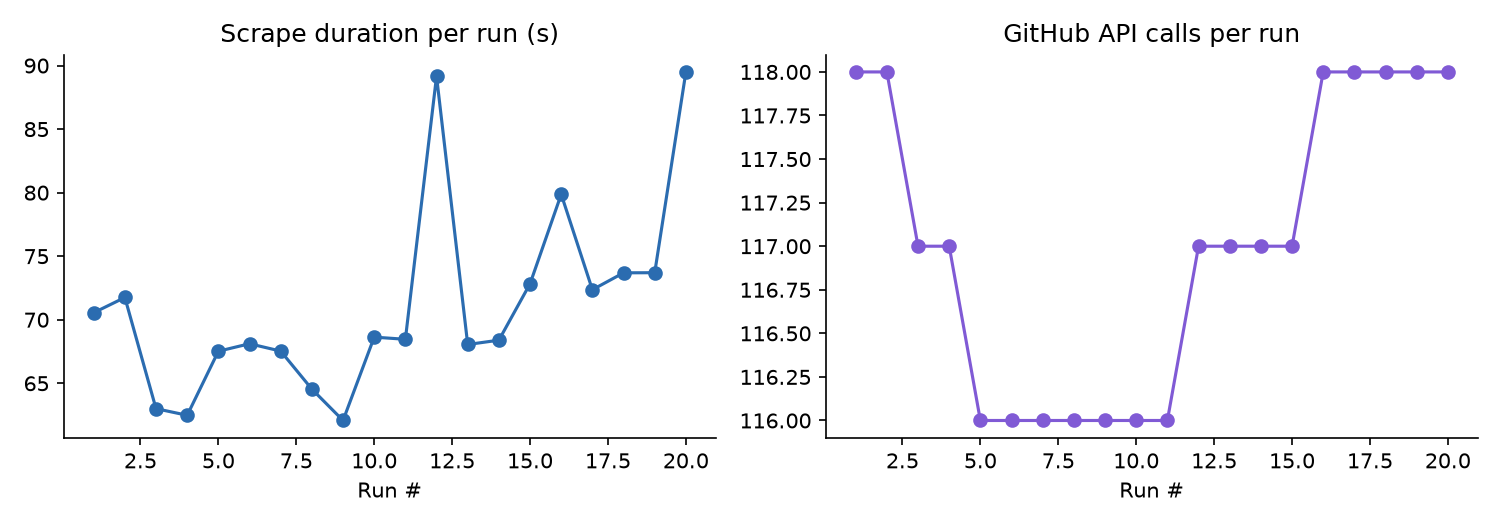
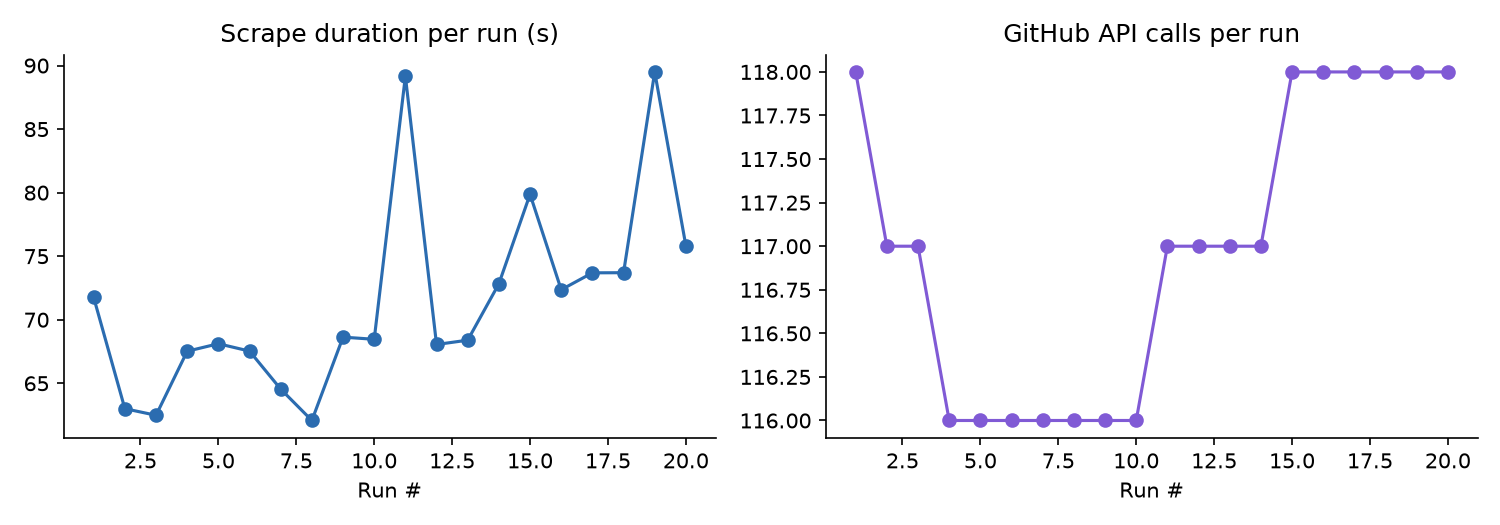
Weekly issue tracker refresh

diff --git a/README.md b/README.md
@@ -81,9 +81,9 @@ See [CONTRIBUTING.md](CONTRIBUTING.md) for the full contributor workflow — inc
 
 <!-- TRACKER:START -->
 
-_Last updated: 2026-10-07 13:49 UTC_
+_Last updated: 2026-10-07 19:35 UTC_
 
-_Tracking **18** upstream repos, **368** relevant open issues._
+_Tracking **18** upstream repos, **375** relevant open issues._
 
 ![Open issues by repo and score](assets/issues_by_repo.png)
 
@@ -140,7 +140,7 @@ _Tracking **18** upstream repos, **368** relevant open issues._
 | ★★☆☆☆ | [#87625](https://github.com/ansible/ansible/issues/87625) Upgrading to 2.22 exposes no_log secrets that 2.21 masked, without a warning | bug, has_pr, affects_2.22 | 9 | 2026-10-06 |
 | ★★☆☆☆ | [#87640](https://github.com/ansible/ansible/issues/87640) `IndexError('list index out of range')` gathering `mounts` (from unexpected `lvs` output) | bug, has_pr | 1 | 2026-10-06 |
 | ★★☆☆☆ | [#87618](https://github.com/ansible/ansible/issues/87618) Data Tagging: default broken for regular dicts | bug, has_pr, P3 | 3 | 2026-10-06 |
-| ★★☆☆☆ | [#85617](https://github.com/ansible/ansible/issues/85617) any_errors_fatal causes hosts to be dropped if rescue occurs in included task | bug, has_pr, P3, verified, affects_2.18 | 3 | 2026-10-06 |
+| ★☆☆☆☆ | [#87652](https://github.com/ansible/ansible/issues/87652) find module: add user/group filters, prune paths, and inline state to enable targeted remote file removal | module, needs_triage, feature | 3 | 2026-10-07 |
 | ★☆☆☆☆ | [#87019](https://github.com/ansible/ansible/issues/87019) Templated ansible_host causes a new connection (and a new runspace/shell) to be created on every loop iteration | bug, has_pr, affects_2.19, affects_2.20 | 13 | 2026-10-07 |
 | ★☆☆☆☆ | [#87552](https://github.com/ansible/ansible/issues/87552) `ansible.builtin.first_found` lookup searches different paths if task calls `ansible.builtin.template` module | waiting_on_contributor, feature, affects_2.21 | 4 | 2026-10-06 |
 | ★☆☆☆☆ | [#87619](https://github.com/ansible/ansible/issues/87619) Enhance 'ansible.builtin.meta' to provide a standard method for exiting playbooks and terminating workflows | module, feature | 1 | 2026-10-06 |
@@ -195,14 +195,14 @@ _Tracking **18** upstream repos, **368** relevant open issues._
 
 | Score | Issue | Labels | Comments | Updated |
 |---|---|---|---|---|
+| ★★★☆☆ | [#141200](https://github.com/kubernetes/kubernetes/issues/141200) [Flaking Test] [sig-node] [Feature:GPUDevicePlugin] Sanity test using nvidia-smi [Provider:aws,gce] should run nvidia-smi and cuda-demo-suite [Serial] | sig/node, kind/flake, help wanted, priority/important-longterm, triage/accepted | 6 | 2026-10-07 |
+| ★★★☆☆ | [#140942](https://github.com/kubernetes/kubernetes/issues/140942) Ensure Credential Pulled Images tests still flaking with "pulled record ... never appeared" after #138527/#138642 (kubelet-gce-e2e-swap-ubuntu-serial) | sig/node, kind/flake, help wanted, priority/important-longterm, triage/accepted | 7 | 2026-10-07 |
+| ★★★☆☆ | [#140978](https://github.com/kubernetes/kubernetes/issues/140978) No e2e coverage for readiness probes during graceful pod termination | kind/bug, area/test, priority/backlog, area/kubelet, sig/node, help wanted, sig/testing, triage/accepted | 5 | 2026-10-07 |
+| ★★★☆☆ | [#134799](https://github.com/kubernetes/kubernetes/issues/134799) Add e2e test for probes using ContainerRestartRules | area/test, priority/backlog, kind/cleanup, sig/node, help wanted, triage/accepted | 7 | 2026-10-07 |
+| ★★★☆☆ | [#134172](https://github.com/kubernetes/kubernetes/issues/134172) Clean up features for SIG Node e2e tests | area/test, kind/cleanup, sig/node, help wanted, priority/important-longterm, triage/accepted | 10 | 2026-10-07 |
 | ★★★☆☆ | [#138149](https://github.com/kubernetes/kubernetes/issues/138149) Migrate DRA components to support granular authorization on status updates | sig/network, sig/node, sig/auth, help wanted, good first issue, triage/accepted, wg/device-management | 86 | 2026-10-07 |
 | ★★★☆☆ | [#121641](https://github.com/kubernetes/kubernetes/issues/121641) CRD API can accept invalid spec that later the naming controller fails to reconcile | kind/bug, sig/api-machinery, help wanted, triage/accepted | 10 | 2026-10-06 |
 | ★★★☆☆ | [#118172](https://github.com/kubernetes/kubernetes/issues/118172) kubelet parameter(eviction-max-pod-grace-period ), not work as expected like officical comment. | kind/bug, priority/backlog, kind/documentation, sig/node, help wanted, priority/important-longterm, good first issue, triage/accepted | 45 | 2026-10-06 |
-| ★★★☆☆ | [#112733](https://github.com/kubernetes/kubernetes/issues/112733) Node lifecycle controller does not `markPodsNotReady` when the node `Ready` state changes from `false` to `unknown` | kind/bug, sig/node, help wanted, good first issue, triage/accepted | 36 | 2026-10-06 |
-| ★★★☆☆ | [#115823](https://github.com/kubernetes/kubernetes/issues/115823) Give an indication in container events for probe failure as to whether the failure was ignored due to FailureThreshold | priority/backlog, kind/documentation, kind/cleanup, sig/node, help wanted, good first issue, triage/accepted | 24 | 2026-09-28 |
-| ★★★☆☆ | [#115782](https://github.com/kubernetes/kubernetes/issues/115782) Write the stress test for gRPC, http, and tcp probes | priority/backlog, kind/cleanup, sig/node, help wanted, good first issue, needs-triage | 47 | 2026-09-28 |
-| ★★★☆☆ | [#141819](https://github.com/kubernetes/kubernetes/issues/141819) E2E testing: check for goroutine leaks | kind/feature, help wanted, sig/testing, needs-triage | 7 | 2026-09-07 |
-| ★★★☆☆ | [#25836](https://github.com/kubernetes/kubernetes/issues/25836) Audit all APIs for selector fields, ensure documented semantics when nil or empty. | priority/backlog, help wanted, sig/architecture, lifecycle/frozen | 9 | 2026-09-02 |
 
 ### [langfuse/langfuse](https://github.com/langfuse/langfuse)
 
@@ -238,12 +238,12 @@ _Tracking **18** upstream repos, **368** relevant open issues._
 |---|---|---|---|---|
 | ★★★★★ | [#50330](https://github.com/open-telemetry/opentelemetry-collector-contrib/issues/50330) Support component status attributes | enhancement, good first issue, extension/opamp | 5 | 2026-10-04 |
 | ★★★★★ | [#48420](https://github.com/open-telemetry/opentelemetry-collector-contrib/issues/48420) [processor/tailsampling] Change default `error_mode` to `ignore` | enhancement, help wanted, good first issue, processor/tailsampling | 5 | 2026-08-17 |
-| ★★★★☆ | [#51845](https://github.com/open-telemetry/opentelemetry-collector-contrib/issues/51845) [receiver/kafka] Make the decompressed batch size limit configurable and recover from ErrDecompressTooLarge | good first issue, receiver/kafka | 2 | 2026-10-07 |
+| ★★★★☆ | [#51845](https://github.com/open-telemetry/opentelemetry-collector-contrib/issues/51845) [receiver/kafka] Make the decompressed batch size limit configurable and recover from ErrDecompressTooLarge | good first issue, receiver/kafka | 3 | 2026-10-07 |
+| ★★★★☆ | [#22095](https://github.com/open-telemetry/opentelemetry-collector-contrib/issues/22095) Migrate to latest semconv version and ensure we regularly update going forward | enhancement, good first issue, priority:p2, never stale, component-stability-phase-1 | 28 | 2026-10-07 |
 | ★★★★☆ | [#48079](https://github.com/open-telemetry/opentelemetry-collector-contrib/issues/48079) [pkg/pdatatest] New MTS-focused metric assertion framework | enhancement, help wanted, pkg/pdatatest | 2 | 2026-10-06 |
 | ★★★★☆ | [#51297](https://github.com/open-telemetry/opentelemetry-collector-contrib/issues/51297) [receiver/azuremonitor] Storage Capacity metrics (BlobCapacity/UsedCapacity) publish with highly variable, undocumented delay per account | good first issue, receiver/azuremonitor | 8 | 2026-10-05 |
 | ★★★★☆ | [#46116](https://github.com/open-telemetry/opentelemetry-collector-contrib/issues/46116) [cmd/mdatagen] Move feature gates for metadata.yaml | enhancement, help wanted, good first issue, Stale, priority:p2, cmd/mdatagen | 36 | 2026-10-05 |
 | ★★★★☆ | [#39333](https://github.com/open-telemetry/opentelemetry-collector-contrib/issues/39333) Add system.cpu.socket.id and system.cpu.core.id attributes | enhancement, good first issue, processor/resourcedetection, never stale | 14 | 2026-10-03 |
-| ★★★★☆ | [#27629](https://github.com/open-telemetry/opentelemetry-collector-contrib/issues/27629) CI/CD: Add label automation to Discussions | enhancement, help wanted, ci-cd, never stale | 6 | 2026-10-03 |
 
 ### [prometheus/prometheus](https://github.com/prometheus/prometheus)
 
@@ -297,7 +297,7 @@ _Tracking **18** upstream repos, **368** relevant open issues._
 
 <!-- METRICS:START -->
 
-_Last run: 2026-10-07 13:47 UTC, took **89.5s**, **118** GitHub API calls, **4882/5000** rate limit remaining._
+_Last run: 2026-10-07 19:34 UTC, took **75.8s**, **118** GitHub API calls, **4882/5000** rate limit remaining._
 
 ![Scrape metrics trend](assets/metrics_trend.png)
 
